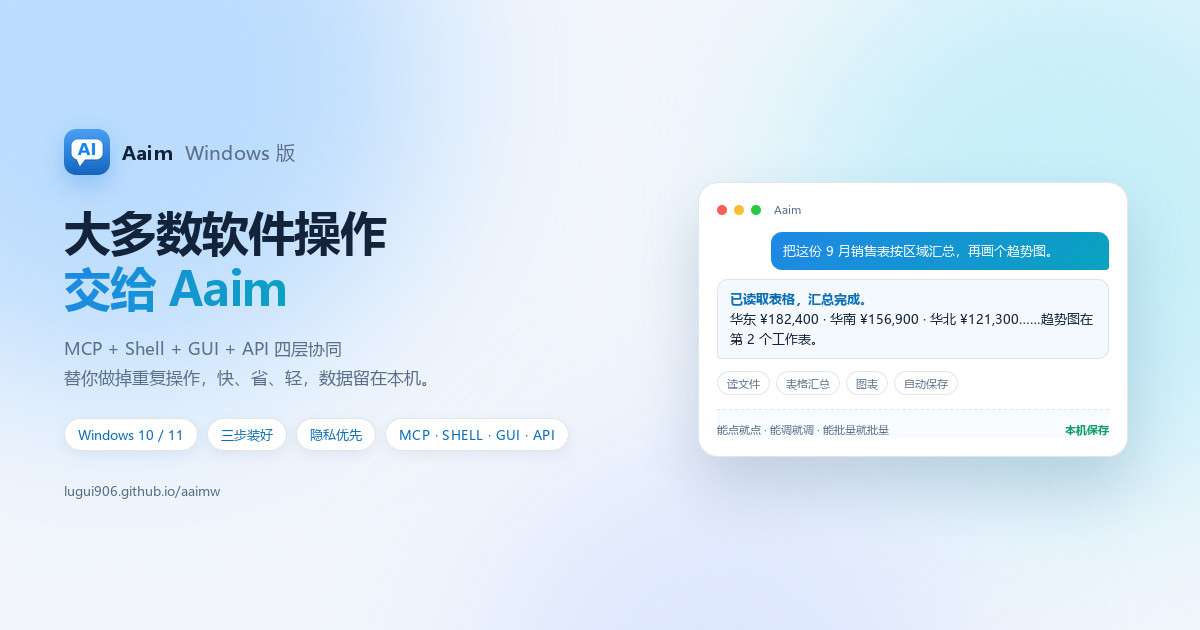
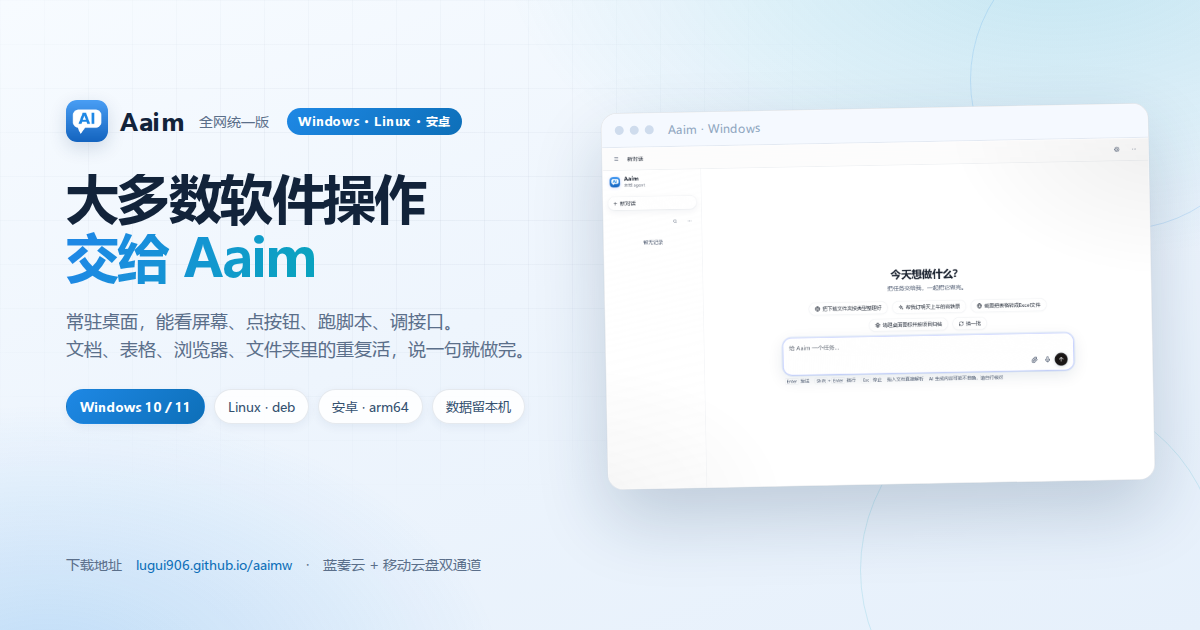
全网统一版：蓝奏云 11.14 双分卷、139 云盘新链接、跨平台入口、新版界面截图与 OG 图

diff --git a/index.html b/index.html
@@ -3,14 +3,14 @@
 <head>
 <meta charset="UTF-8">
 <meta name="viewport" content="width=device-width, initial-scale=1.0">
-<title>Aaim · Windows 版 —— 把大部分软件操作交给 AI</title>
+<title>Aaim 全网统一版 —— Windows / Linux / 安卓 下载</title>
 <meta name="description" content="Aaim 是常驻 Windows 桌面的 AI 助手：用 MCP + Shell + GUI + API 四层控制替你操作软件，接掉文档、表格、浏览器、文件与日常流程里的重复活。快、省、轻，数据留在本机，三步装好。">
 <link rel="canonical" href="https://lugui906.github.io/aaimw/">
 <meta name="theme-color" content="#f2f6fc">
 <meta property="og:type" content="website">
 <meta property="og:site_name" content="Aaim">
 <meta property="og:locale" content="zh_CN">
-<meta property="og:title" content="Aaim · Windows 版 —— 把大部分软件操作交给 AI">
+<meta property="og:title" content="Aaim 全网统一版 —— Windows / Linux / 安卓 下载">
 <meta property="og:description" content="MCP + Shell + GUI + API 四层控制，替你做掉大部分重复软件操作。快、省、轻，数据留本机。">
 <meta property="og:url" content="https://lugui906.github.io/aaimw/">
 <meta property="og:image" content="https://lugui906.github.io/aaimw/og.png">
@@ -18,7 +18,7 @@
 <meta property="og:image:height" content="630">
 <meta property="og:image:alt" content="Aaim Windows 版：大多数软件操作，交给 Aaim">
 <meta name="twitter:card" content="summary_large_image">
-<meta name="twitter:title" content="Aaim · Windows 版 —— 把大部分软件操作交给 AI">
+<meta name="twitter:title" content="Aaim 全网统一版 —— Windows / Linux / 安卓 下载">
 <meta name="twitter:description" content="MCP + Shell + GUI + API 四层控制，替你做掉大部分重复软件操作。快、省、轻，数据留本机。">
 <meta name="twitter:image" content="https://lugui906.github.io/aaimw/og.png">
 <link rel="icon" type="image/png" href="aaim.png">
@@ -30,8 +30,8 @@
   "alternateName": "Aaim Windows 版",
   "url": "https://lugui906.github.io/aaimw/",
   "image": "https://lugui906.github.io/aaimw/aaim.png",
-  "softwareVersion": "1.0.0",
-  "operatingSystem": "Windows 10, Windows 11",
+  "softwareVersion": "1.0.1113.2336",
+  "operatingSystem": "Windows 10, Windows 11, Linux, Android",
   "applicationCategory": "BusinessApplication",
   "inLanguage": "zh-CN",
   "description": "常驻 Windows 桌面的 AI 助手：通过 MCP、Shell、GUI 与 API 多层控制代替人工操作软件，覆盖文档、表格、浏览器、文件与日常流程。快、省、轻，数据保存在本机。",
@@ -208,6 +208,11 @@ section{padding:64px 0}
 @media(max-width:700px){.shot{border-radius:14px}.shot-bar{padding:10px 13px}.shot figcaption{padding:10px 13px;font-size:11.5px}}
 
 /* 下载 */
+.platrow{display:flex;flex-wrap:wrap;gap:10px;justify-content:center;margin-top:20px}
+.platrow a,.platrow .cur{display:inline-flex;align-items:center;gap:8px;font-size:13.5px;padding:8px 16px;border-radius:999px;border:1px solid var(--line);background:#fff;color:var(--muted);box-shadow:var(--sh-sm);transition:.2s}
+.platrow a:hover{color:var(--txt);transform:translateY(-1px);border-color:rgba(30,136,229,.45)}
+.platrow .cur{background:linear-gradient(135deg,var(--accent),var(--accent-d));color:#fff;border-color:transparent;font-weight:600}
+.platrow .i{width:15px;height:15px}
 .dl-grid{display:grid;grid-template-columns:1fr 1fr;gap:16px}
 .dl-card{background:#fff;border:1px solid var(--line);border-radius:16px;padding:20px;box-shadow:var(--sh-sm);transition:.25s}
 .dl-card:hover{border-color:rgba(30,136,229,.45);box-shadow:var(--sh)}
@@ -290,6 +295,7 @@ footer p.copyright{margin-top:8px;opacity:.7}
   <symbol id="i-clock" viewBox="0 0 24 24"><circle cx="12" cy="12" r="10"/><path d="M12 6v6l4 2"/></symbol>
   <symbol id="i-plug" viewBox="0 0 24 24"><path d="M12 22v-5M9 7V2M15 7V2M6 7h12v4a6 6 0 0 1-12 0z"/></symbol>
   <symbol id="i-terminal" viewBox="0 0 24 24"><rect x="2" y="3" width="20" height="18" rx="2"/><path d="m6 9 3 3-3 3M13 15h5"/></symbol>
+  <symbol id="i-phone" viewBox="0 0 24 24"><rect x="6" y="2" width="12" height="20" rx="2.5"/><path d="M11 18.5h2"/></symbol>
   <symbol id="i-mouse" viewBox="0 0 24 24"><rect x="6" y="2" width="12" height="20" rx="6"/><path d="M12 2v6"/></symbol>
   <symbol id="i-code" viewBox="0 0 24 24"><path d="m8 6-6 6 6 6M16 6l6 6-6 6"/></symbol>
   <symbol id="i-shield" viewBox="0 0 24 24"><path d="M12 2 4 5v6c0 5 3.4 9.4 8 11 4.6-1.6 8-6 8-11V5z"/><path d="m9 12 2 2 4-4"/></symbol>
@@ -307,7 +313,7 @@ footer p.copyright{margin-top:8px;opacity:.7}
 <nav id="topnav">
   <div class="wrap">
     <img src="aaim.png" alt="Aaim">
-    <b>Aaim <span>Windows</span></b>
+    <b>Aaim <span>全网统一版</span></b>
     <div class="links">
       <a class="opt" href="#do">能做什么</a>
       <a class="opt" href="#layers">四层控制</a>
@@ -336,7 +342,7 @@ footer p.copyright{margin-top:8px;opacity:.7}
   </div>
   <div class="wrap">
     <img class="icon" src="aaim.png" alt="Aaim 图标">
-    <div class="badge"><svg class="i"><use href="#i-window"/></svg>Windows 10 / 11 · 下载即用 · 数据留本机</div>
+    <div class="badge"><svg class="i"><use href="#i-window"/></svg>全网统一版 · Windows 10 / 11 · 数据留本机</div>
     <h1>大多数软件操作<br><span class="grad">交给 Aaim</span></h1>
     <p class="lead">
       Aaim 常驻桌面，能看屏幕、点按钮、跑脚本、调接口。
@@ -352,7 +358,7 @@ footer p.copyright{margin-top:8px;opacity:.7}
       <div><b>轻</b>不折腾环境</div>
       <div><b>本机</b>数据留在电脑</div>
     </div>
-    <div class="ver">v1.0.0 · Windows 10 / 11（64 位）· 安装包分两个分卷</div>
+    <div class="ver">v1.0.1113.2336 · Windows 10 / 11（64 位）· 安装包分两个分卷</div>
   </div>
 </header>
 
@@ -471,26 +477,31 @@ footer p.copyright{margin-top:8px;opacity:.7}
       <div class="k">Download</div>
       <h2>三步开工</h2>
       <p>Windows 10 / 11（64 位）。两个文件都要下载，安装后填一次 Key 就能用。蓝奏云打不开时，用下方的移动云盘备用链接。</p>
+      <div class="platrow">
+        <span class="cur"><svg class="i"><use href="#i-window"/></svg>Windows · 当前页</span>
+        <a href="https://lugui906.github.io/aaiml/" target="_blank" rel="noopener"><svg class="i"><use href="#i-terminal"/></svg>Linux 版</a>
+        <a href="https://lugui906.github.io/aaima/" target="_blank" rel="noopener"><svg class="i"><use href="#i-phone"/></svg>安卓版</a>
+      </div>
     </div>
     <div class="dl-grid">
       <div class="dl-card">
         <div class="dl-head"><span class="part">主文件</span></div>
-        <div class="dl-name">Aaim.zip</div>
-        <p class="dl-hint">保持原名，解压这个文件</p>
+        <div class="dl-name">aaim-11.14.zip</div>
+        <p class="dl-hint">保持原名，解压这个文件 · 86.0 MB</p>
         <div class="dl-actions">
-          <span class="pwd">密码 <b>fnz0</b></span>
-          <button class="copy" type="button" data-copy="fnz0" data-label="复制密码">复制密码</button>
-          <a class="dl-btn" href="https://wwaye.lanzoue.com/i7TOt4czzqtc" target="_blank" rel="noopener" aria-label="下载 Aaim.zip">下载<svg class="i"><use href="#i-download"/></svg></a>
+          <span class="pwd">密码 <b>7fq9</b></span>
+          <button class="copy" type="button" data-copy="7fq9" data-label="复制密码">复制密码</button>
+          <a class="dl-btn" href="https://wwaye.lanzoue.com/i7efE4fv3buf" target="_blank" rel="noopener" aria-label="下载 aaim-11.14.zip">下载<svg class="i"><use href="#i-download"/></svg></a>
         </div>
       </div>
       <div class="dl-card">
         <div class="dl-head"><span class="part warn">需要重命名</span></div>
-        <div class="dl-name">Aaim2.zip</div>
-        <p class="dl-hint">下载后重命名为 <code>Aaim.z01</code></p>
+        <div class="dl-name">aaim-11.14-2.zip</div>
+        <p class="dl-hint">下载后重命名为 <code>aaim-11.14.z01</code> · 99.0 MB</p>
         <div class="dl-actions">
-          <span class="pwd">密码 <b>3bz5</b></span>
-          <button class="copy" type="button" data-copy="3bz5" data-label="复制密码">复制密码</button>
-          <a class="dl-btn" href="https://wwaye.lanzoue.com/i7Ewz4czzrdc" target="_blank" rel="noopener" aria-label="下载 Aaim2.zip">下载<svg class="i"><use href="#i-download"/></svg></a>
+          <span class="pwd">密码 <b>ghur</b></span>
+          <button class="copy" type="button" data-copy="ghur" data-label="复制密码">复制密码</button>
+          <a class="dl-btn" href="https://wwaye.lanzoue.com/iohCZ4fv3dna" target="_blank" rel="noopener" aria-label="下载 aaim-11.14-2.zip">下载<svg class="i"><use href="#i-download"/></svg></a>
         </div>
       </div>
     </div>
@@ -500,26 +511,26 @@ footer p.copyright{margin-top:8px;opacity:.7}
       <div>
         <b>备用通道 · 中国移动云盘</b>
         <p>蓝奏云打不开时走这里。复制链接后用手机打开「中国移动云盘」App，操作更方便哦。</p>
-        <p class="url">https://yun.139.com/shareweb/#/w/i/2yA8H2ssVho6h</p>
+        <p class="url">https://yun.139.com/shareweb/#/w/i/2yA8FpkhU5Uyp</p>
       </div>
       <div class="mirror-act">
-        <button class="copy" type="button" data-copy="https://yun.139.com/shareweb/#/w/i/2yA8H2ssVho6h" data-label="复制链接">复制链接</button>
-        <a class="dl-btn" href="https://yun.139.com/shareweb/#/w/i/2yA8H2ssVho6h" target="_blank" rel="noopener" aria-label="打开中国移动云盘分享链接">去云盘<svg class="i"><use href="#i-download"/></svg></a>
+        <button class="copy" type="button" data-copy="https://yun.139.com/shareweb/#/w/i/2yA8FpkhU5Uyp" data-label="复制链接">复制链接</button>
+        <a class="dl-btn" href="https://yun.139.com/shareweb/#/w/i/2yA8FpkhU5Uyp" target="_blank" rel="noopener" aria-label="打开中国移动云盘分享链接">去云盘<svg class="i"><use href="#i-download"/></svg></a>
       </div>
     </div>
 
     <div class="rename">
       <div class="warn-ico"><svg class="i"><use href="#i-warn"/></svg></div>
       <div>
-        <b>重要：把 Aaim2.zip 重命名为 Aaim.z01</b>
-        <p>两个文件放在同一个文件夹。把 <code>Aaim2.zip</code> 改名为 <code>Aaim.z01</code>，保持 <code>Aaim.zip</code> 不变，然后解压 <code>Aaim.zip</code>。</p>
-        <p class="small">如果看不到扩展名，先在资源管理器里打开「文件扩展名」，确保最终文件名是 <code>Aaim.z01</code>，而不是 <code>Aaim.z01.zip</code>。</p>
+        <b>重要：把 aaim-11.14-2.zip 重命名为 aaim-11.14.z01</b>
+        <p>两个文件放在同一个文件夹。把 <code>aaim-11.14-2.zip</code> 改名为 <code>aaim-11.14.z01</code>，保持 <code>aaim-11.14.zip</code> 不变，然后解压 <code>aaim-11.14.zip</code>。</p>
+        <p class="small">如果看不到扩展名，先在资源管理器里打开「文件扩展名」，确保最终文件名是 <code>aaim-11.14.z01</code>，而不是 <code>aaim-11.14.z01.zip</code>。</p>
       </div>
     </div>
 
     <div class="steps">
-      <div class="step"><div class="n">1</div><div><b>下载两个文件</b><p>上面的 Aaim.zip 和 Aaim2.zip 都要下载，密码分别是 <code>fnz0</code> 和 <code>3bz5</code>。</p></div></div>
-      <div class="step"><div class="n">2</div><div><b>改名、解压</b><p>Aaim2.zip → Aaim.z01；解压 Aaim.zip，得到 <code>aaim-1.0.0-x64.msi</code>。</p></div></div>
+      <div class="step"><div class="n">1</div><div><b>下载两个文件</b><p>上面的 aaim-11.14.zip 和 aaim-11.14-2.zip 都要下载，密码分别是 <code>7fq9</code> 和 <code>ghur</code>。</p></div></div>
+      <div class="step"><div class="n">2</div><div><b>改名、解压</b><p>aaim-11.14-2.zip → aaim-11.14.z01；解压 aaim-11.14.zip，得到 <code>aaim-1.0.0-x64.msi</code>。</p></div></div>
       <div class="step"><div class="n">3</div><div><b>安装、填 Key</b><p>双击安装包，启动 Aaim，在设置里填接口地址和 API Key，开始用。按当前用户安装，不需要管理员权限。</p></div></div>
     </div>
     <p class="note">建议用 7-Zip 或 WinRAR 解压；解压前，两个文件必须放在同一个文件夹。</p>
@@ -541,6 +552,8 @@ footer p.copyright{margin-top:8px;opacity:.7}
     <div class="socials">
       <a class="pill" href="#download"><svg class="i"><use href="#i-download"/></svg>下载 Aaim</a>
       <a class="pill" href="https://github.com/lugui906/aaimw" target="_blank" rel="noopener"><svg class="i f"><use href="#i-github"/></svg>GitHub · lugui906/aaimw</a>
+      <a class="pill" href="https://lugui906.github.io/aaiml/" target="_blank" rel="noopener"><svg class="i"><use href="#i-terminal"/></svg>Linux 版</a>
+      <a class="pill" href="https://lugui906.github.io/aaima/" target="_blank" rel="noopener"><svg class="i"><use href="#i-phone"/></svg>安卓版</a>
       <a class="pill" href="#top"><svg class="i"><use href="#i-up"/></svg>回到顶部</a>
     </div>
     <p>Aaim · Windows 版 —— 把大部分软件操作交给 AI</p>
